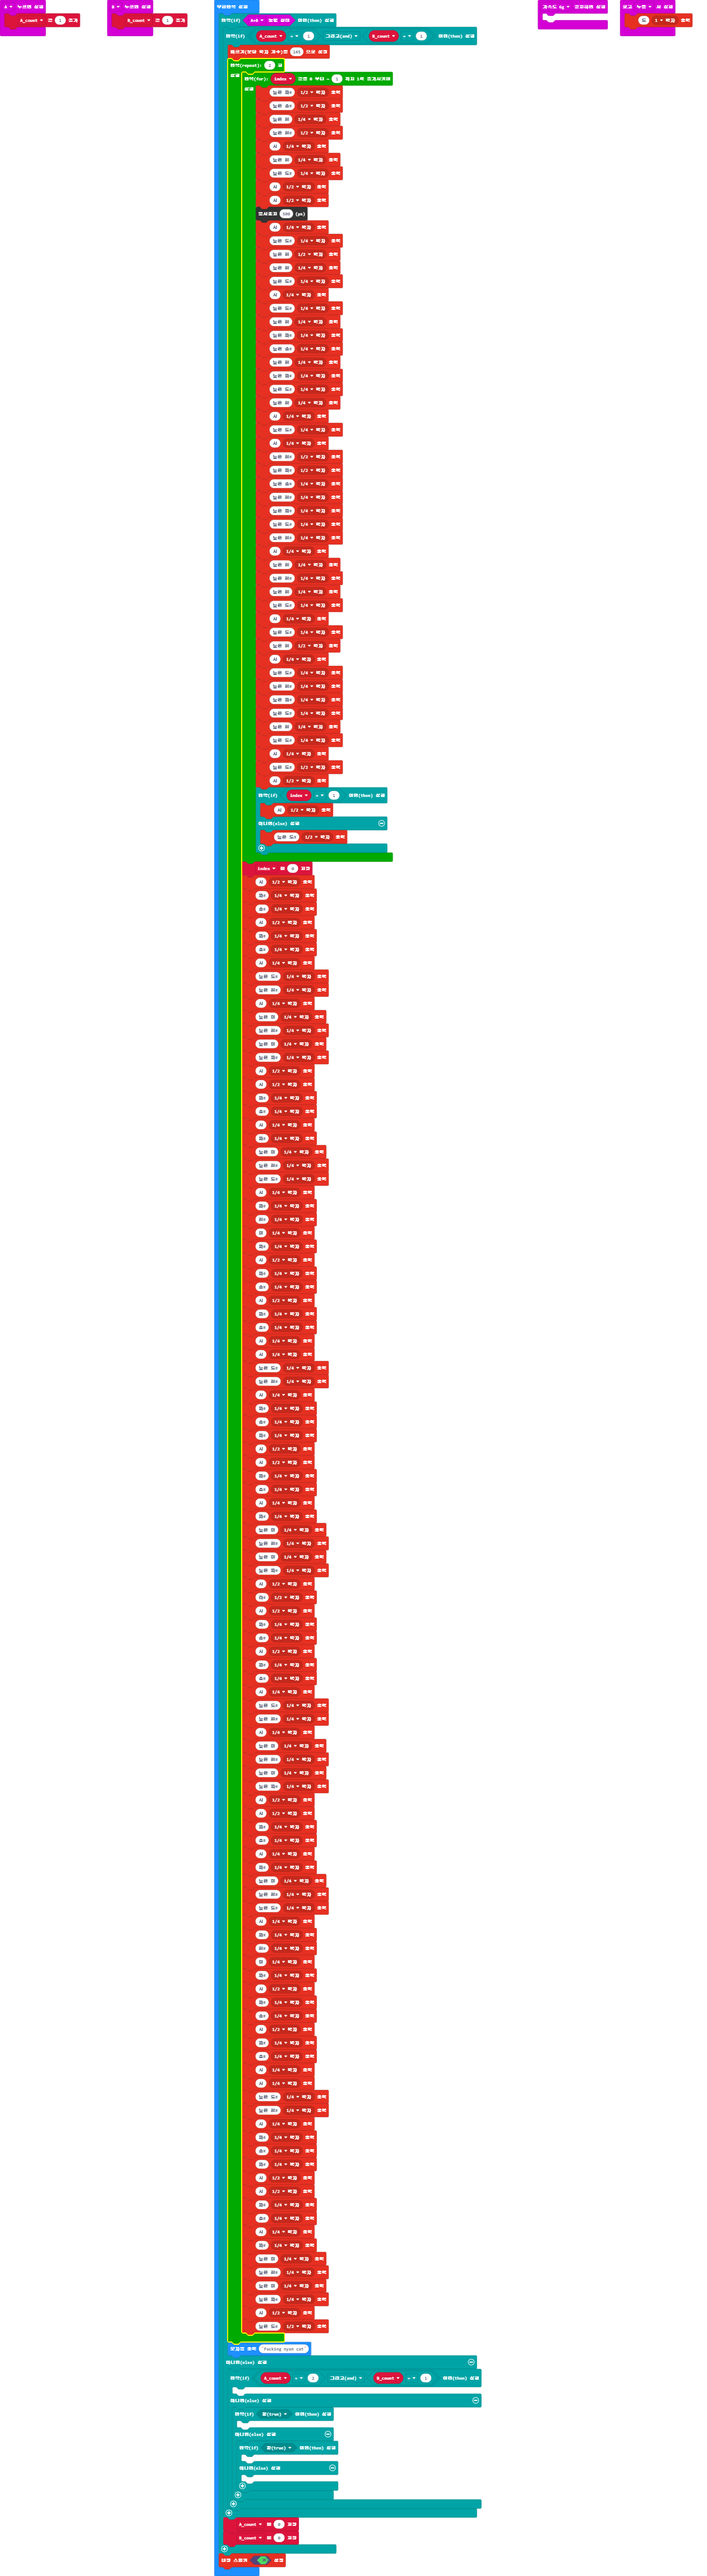
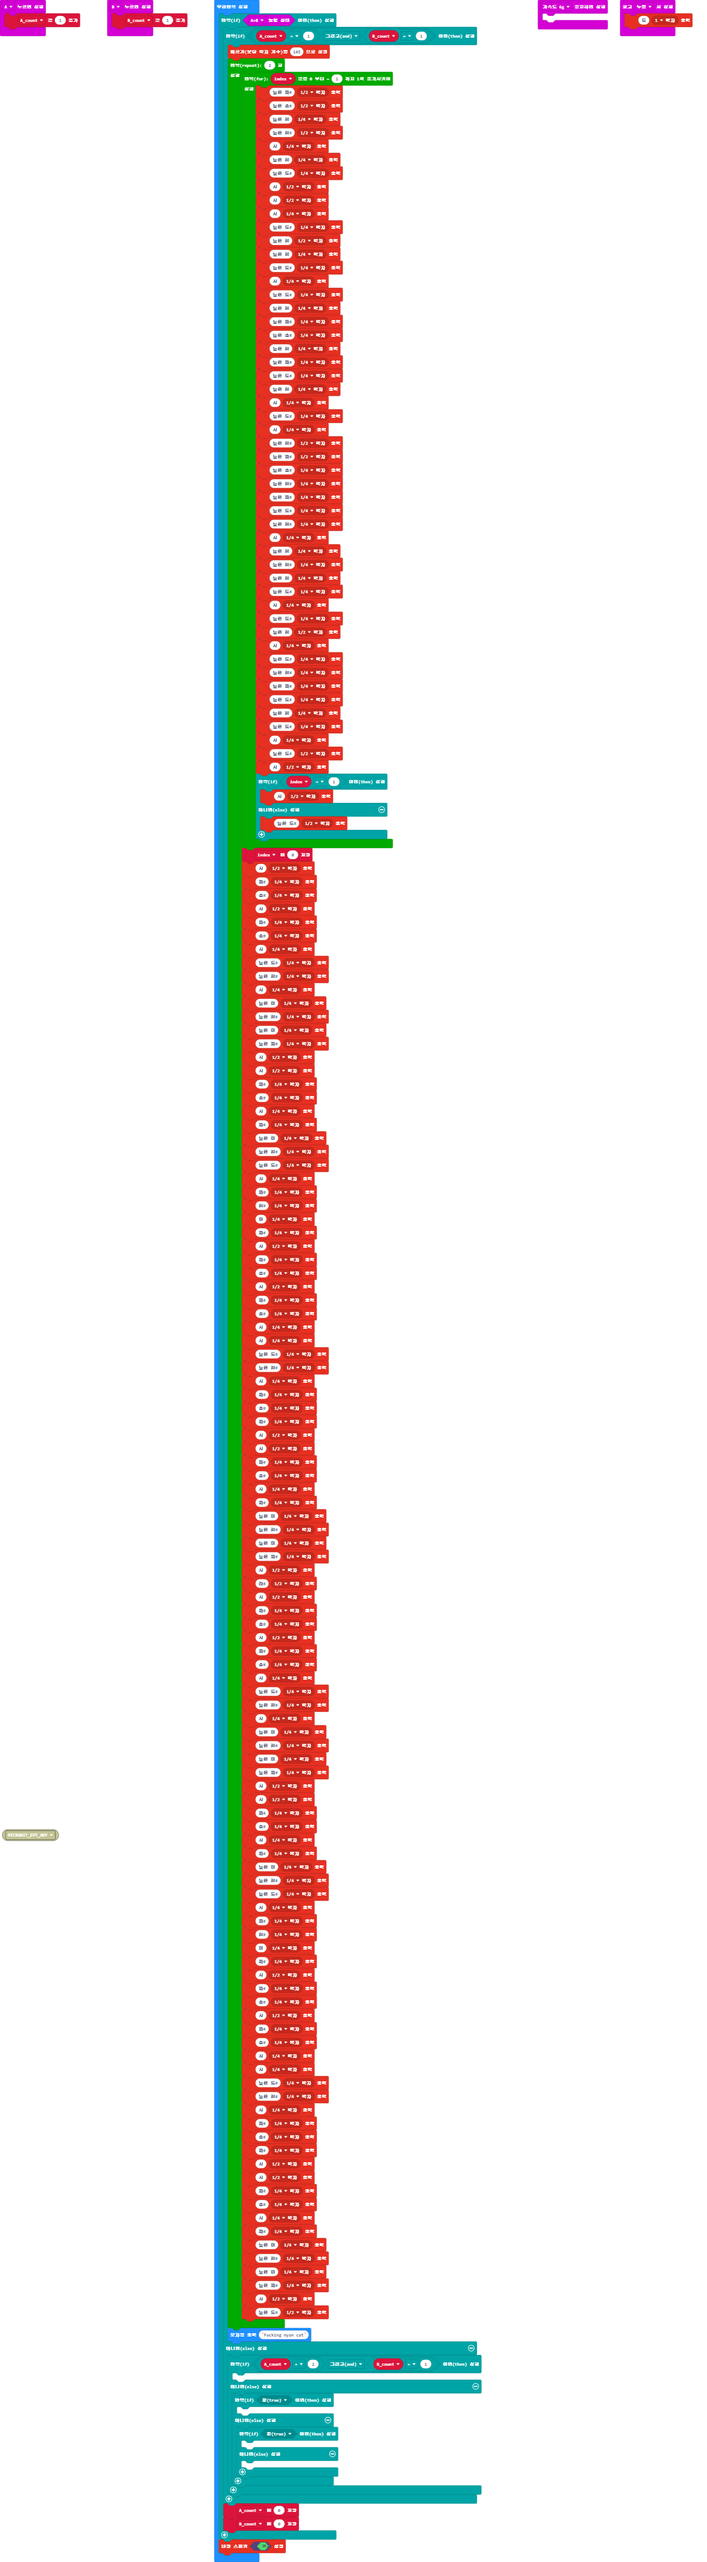
main.blocks, main.ts 업데이트하기

Changed region(s): [[0.31, 0.0, 0.558, 0.9662], [0.527, 0.9039, 0.682, 0.935]]

diff --git a/main.ts b/main.ts
@@ -28,7 +28,6 @@ basic.forever(function () {
                     music.playTone(554, music.beat(BeatFraction.Quarter))
                     music.playTone(494, music.beat(BeatFraction.Half))
                     music.playTone(494, music.beat(BeatFraction.Half))
-                    control.waitMicros(500)
                     music.playTone(494, music.beat(BeatFraction.Quarter))
                     music.playTone(554, music.beat(BeatFraction.Quarter))
                     music.playTone(587, music.beat(BeatFraction.Half))
